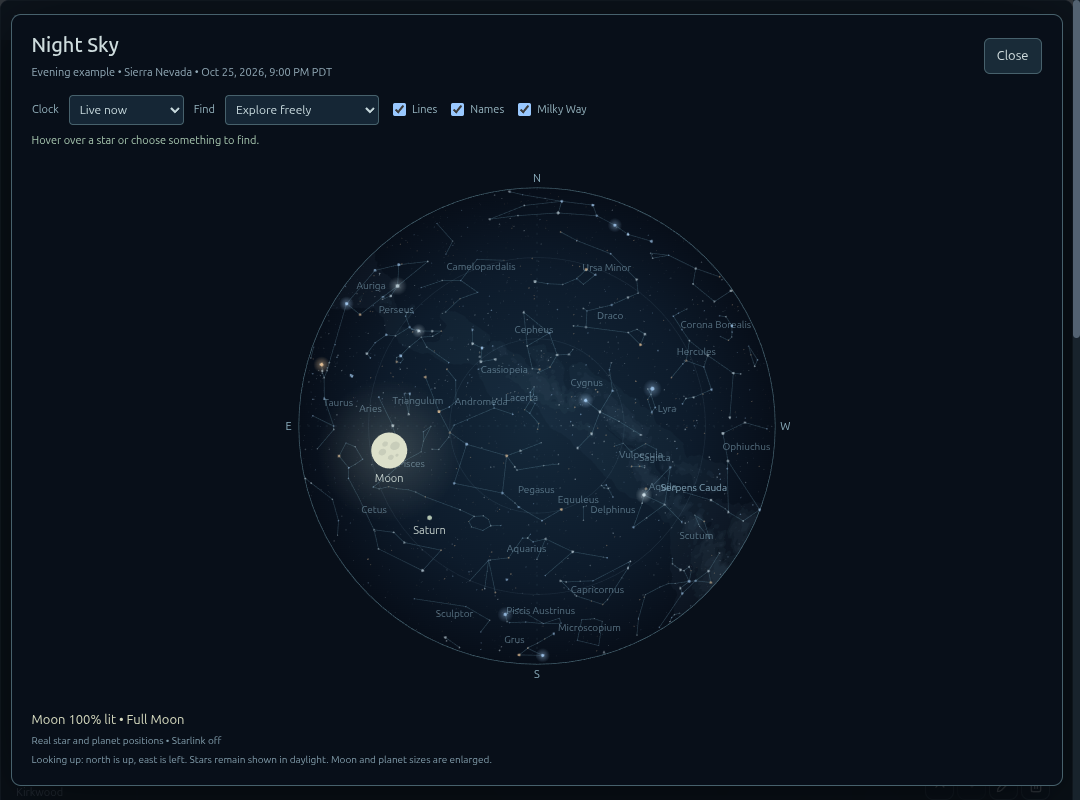
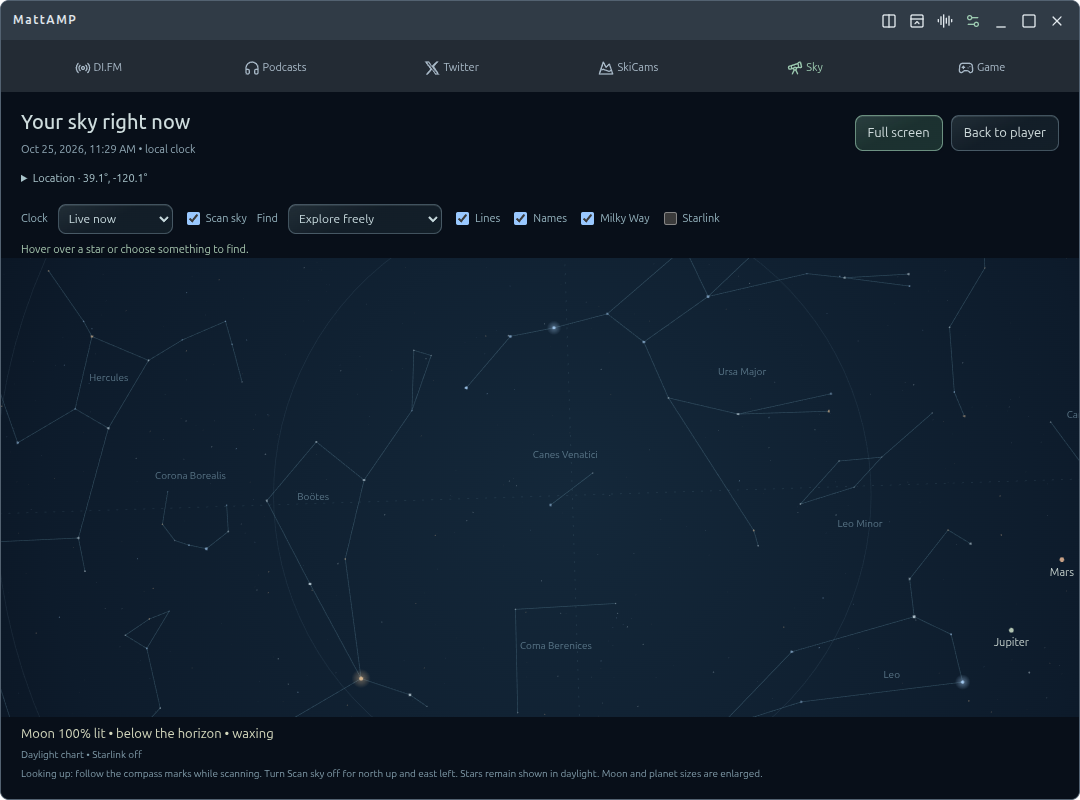
Make Sky a dedicated mode with true fullscreen exploration

diff --git a/src/app.js b/src/app.js
@@ -5,7 +5,7 @@ const ambient=new MattAmbient($('ambient'));
 const retro=new MattRetro(root,audio);
 const apple2=new MattApple2();
 let appHidden=false;
-const skyUI=new MattSkyUI({ambient,getState:()=>state,onToggle:()=>{syncXBounds();syncGame();},save:async patch=>{const saved=await unwrap(window.deck.save(patch));state.skyLocation=saved.skyLocation;state.skySatellites=saved.skySatellites;state.skyTime=saved.skyTime;state.skyScan=saved.skyScan;}});
+const skyUI=new MattSkyUI({ambient,getState:()=>state,onOpen:enterSky,onClose:exitSky,save:async patch=>{const saved=await unwrap(window.deck.save(patch));state.skyLocation=saved.skyLocation;state.skySatellites=saved.skySatellites;state.skyTime=saved.skyTime;state.skyScan=saved.skyScan;}});
 function syncAmbient(){if(state){ambient.configure(state.appearance!=='modern'?'off':state.ambient,appHidden||mode==='bug');skyUI.sync(state.appearance==='modern'&&state.ambient==='night-sky'&&!appHidden&&mode!=='bug',appHidden||mode==='bug');skyUI.render();retro.configure(state.appearance!=='modern',!appHidden&&!document.hidden&&mode!=='bug'&&!settings,state.source==='radio'&&!readingX&&!playingGame&&!watchingCams);}}
 const startupAudio=new Audio('/startup.mp3');
 startupAudio.preload='auto';
@@ -20,6 +20,7 @@ function playTabSound(tab){
 }
 function stopStartup(){startupAudio.pause();startupAudio.currentTime=0;}
 let artwork={};
+let viewingSky=false,skyReturn=null;
 let readingX=false,playingGame=false,watchingCams=false,cameraPanel=null,xLane='ai';
 const arcade=new MattArcade($('game-panel'),()=>resize());
 function syncWindowState({maximized}){
@@ -27,7 +28,7 @@ function syncWindowState({maximized}){
  button.setAttribute('aria-pressed',String(maximized));button.setAttribute('aria-label',maximized?'Restore window':'Maximize window');button.title=maximized?'Restore window':'Maximize window';button.innerHTML=icon(maximized?'copy':'square');
  if(state)render();
 }
-function syncGame(){if(!playingGame&&arcade.expanded)arcade.setExpanded(false);arcade.setVisible(playingGame&&!settings&&!skyUI.dialog.open&&mode==='full'&&!appHidden&&!document.hidden);}
+function syncGame(){if(!playingGame&&arcade.expanded)arcade.setExpanded(false);arcade.setVisible(playingGame&&!settings&&!skyUI.isOpen&&mode==='full'&&!appHidden&&!document.hidden);}
 function syncChrome(){
  const title=document.querySelector('.titlebar').offsetHeight,tabs=document.querySelector('.sourcebar').offsetHeight;
  root.style.setProperty('--titlebar-height',title+'px');root.style.setProperty('--sourcebar-height',tabs+'px');
@@ -36,15 +37,23 @@ function syncChrome(){
  syncXBounds();
 }
 function syncXBounds(){
- cameraPanel?.setVisible(watchingCams&&!settings&&!skyUI.dialog.open&&mode==='full'&&!appHidden&&!document.hidden);
- const rect=$('x-viewport').getBoundingClientRect(),visible=readingX&&!settings&&!skyUI.dialog.open&&mode==='full'&&!document.hidden&&rect.y>=document.querySelector('.sourcebar').getBoundingClientRect().bottom;
+ cameraPanel?.setVisible(watchingCams&&!settings&&!skyUI.isOpen&&mode==='full'&&!appHidden&&!document.hidden);
+ const rect=$('x-viewport').getBoundingClientRect(),visible=readingX&&!settings&&!skyUI.isOpen&&mode==='full'&&!document.hidden&&rect.y>=document.querySelector('.sourcebar').getBoundingClientRect().bottom;
  void window.deck.xBounds({visible,x:rect.x,y:rect.y,width:rect.width,height:rect.height});
 }
-function toggleX(open){watchingCams=false;playingGame=false;readingX=open;if(open){mode='full';settings=false;if(isVideo())pause();}render();}
+function enterSky(){
+ if(!viewingSky)skyReturn={readingX,playingGame,watchingCams};
+ viewingSky=true;readingX=false;playingGame=false;watchingCams=false;mode='full';settings=false;
+ if(isVideo())pause();render();$('sky-fullscreen').focus({preventScroll:true});
+}
+function exitSky(){
+ viewingSky=false;if(skyReturn)({readingX,playingGame,watchingCams}=skyReturn);skyReturn=null;render();$('source-sky').focus({preventScroll:true});
+}
+function toggleX(open){viewingSky=false;watchingCams=false;playingGame=false;readingX=open;if(open){mode='full';settings=false;if(isVideo())pause();}render();}
 async function xAction(action,lane=xLane){try{await unwrap(window.deck.xAction(action,lane));}catch(err){$('x-status').textContent=err.message;}}
 function renderX(){
  const visible=readingX&&mode==='full';
- $('x-panel').hidden=!visible;document.querySelector('.media').hidden=visible||playingGame||watchingCams;
+ $('x-panel').hidden=!visible;document.querySelector('.media').hidden=visible||playingGame||watchingCams||viewingSky;
  $('x-ai').setAttribute('aria-pressed',String(xLane==='ai'));$('x-giggles').setAttribute('aria-pressed',String(xLane==='giggles'));
  $('x-summary').textContent=xLane==='giggles'?'@elonmusk · a little chaos on the side':state.xAccounts.map(name=>'@'+name).join(' · ')+(state.xAiOnly?' · AI topics':' · all topics');
 }
@@ -84,7 +93,7 @@ async function persist(){if(!state)return;try{await unwrap(window.deck.save({app
 function queueSave(){clearTimeout(saveTimer);saveTimer=setTimeout(()=>{snapshot();void persist();},300);}
 function setStatus(value,isPlaying=false){status=value;playing=isPlaying;$('play-status').textContent=value;$('play').innerHTML=icon(isPlaying?'pause':'play')+'<span>'+(isPlaying?'Pause':'Play')+'</span>';$('play').setAttribute('aria-label',isPlaying?'Pause playback':'Play');updateBug();icons();}
 function updateBug(){if(!state)return;const online=metrics?.network?.status==='online';const color=online?'#9ccab0':metrics?.network?.status==='checking'?'#a8b9c7':'#dfb574';document.querySelector('.bug-led').style.background=color;const name=state.source==='radio'?activeStation()?.name:activeShow()?.name;const description='Open MattAMP · '+name+' · '+status+' · '+(online?'Online':'Network '+(metrics?.network?.status||'checking'));$('bug').title=description;$('bug').setAttribute('aria-label',description);const old=document.querySelector('.bug-playback');const replacement=document.createElement('i');replacement.className='bug-playback';replacement.dataset.lucide=playing?'play':'pause';old.replaceWith(replacement);}
-function resize(){if(skyUI.dialog.open||resizeQueued)return;resizeQueued=true;requestAnimationFrame(()=>{resizeQueued=false;if(!state)return;const full=document.querySelector('.full');const h=mode==='bug'?56:Math.ceil(document.querySelector('.titlebar').offsetHeight+(settings?$('settings').scrollHeight:full.scrollHeight)+parseFloat(getComputedStyle(root).borderTopWidth)+parseFloat(getComputedStyle(root).borderBottomWidth));const expanded=arcade.expanded&&playingGame;const game=playingGame?(mode==='bug'?'bug':settings?'settings':'play'):'';const key=[mode,state.layout,h,settings,expanded,game].join(':');if(lastSize===key){syncXBounds();return;}lastSize=key;void window.deck.resize(mode,h,expanded,game).then(syncXBounds);});}
+function resize(){if(resizeQueued)return;resizeQueued=true;requestAnimationFrame(()=>{resizeQueued=false;if(!state)return;const full=document.querySelector('.full');const h=mode==='bug'?56:Math.ceil(document.querySelector('.titlebar').offsetHeight+(settings?$('settings').scrollHeight:full.scrollHeight)+parseFloat(getComputedStyle(root).borderTopWidth)+parseFloat(getComputedStyle(root).borderBottomWidth));const expanded=viewingSky||arcade.expanded&&playingGame;const game=viewingSky?(mode==='bug'?'bug':settings?'settings':'sky'):playingGame?(mode==='bug'?'bug':settings?'settings':'play'):'';const key=[mode,state.layout,h,settings,expanded,game].join(':');if(lastSize===key){syncXBounds();return;}lastSize=key;void window.deck.resize(mode,h,expanded,game).then(syncXBounds);});}
 function render(){
  root.classList.toggle('retro',state.appearance!=='modern');root.classList.toggle('apple2',state.appearance==='apple2');root.classList.toggle('scanlines',state.appearance==='apple2'&&state.scanlines);
  $('appearance').value=state.appearance;$('scanlines').checked=state.scanlines;$('scanlines-setting').hidden=state.appearance!=='apple2';
@@ -92,12 +101,13 @@ function render(){
  $('appearance-hint').textContent=state.appearance==='apple2'?'Color pixels, green outlines, and an optional robotic greeting. Silly sound effects controls the greeting.':state.appearance==='retro'?'Metal trim, green LEDs, and a modem greeting. Welcome back to 1997.':'Dark glass and your chosen live background.';
  renderBandwidth();
  const podcast=state.source==='podcast',video=isVideo();
+ skyUI.setVisible(viewingSky&&!settings&&mode==='full');root.classList.toggle('sky-mode',skyUI.isOpen);$('source-sky').setAttribute('aria-pressed',String(viewingSky));
  renderX();syncAmbient();syncGame();
  root.classList.toggle('arcade-expanded',(arcade.expanded||arcade.maximized)&&playingGame&&!settings&&mode==='full');
  root.classList.toggle('game-mode',playingGame&&!settings&&mode==='full');$('game-panel').hidden=!playingGame||settings||mode!=='full';$('source-game').setAttribute('aria-pressed',String(playingGame));
  root.classList.toggle('sidecar',state.layout==='sidecar');root.classList.toggle('stack',state.layout==='stack');root.classList.toggle('compact',mode==='compact');root.classList.toggle('bug-mode',mode==='bug');root.classList.toggle('youtube',video);root.classList.toggle('details',state.details);root.classList.toggle('settings-mode',settings);
  $('source-cameras').setAttribute('aria-pressed',String(watchingCams));
- $('source-radio').setAttribute('aria-pressed',String(!watchingCams&&!readingX&&!playingGame&&!podcast));$('source-podcast').setAttribute('aria-pressed',String(!watchingCams&&!readingX&&!playingGame&&podcast));$('source-x').setAttribute('aria-pressed',String(readingX));
+ $('source-radio').setAttribute('aria-pressed',String(!viewingSky&&!watchingCams&&!readingX&&!playingGame&&!podcast));$('source-podcast').setAttribute('aria-pressed',String(!viewingSky&&!watchingCams&&!readingX&&!playingGame&&podcast));$('source-x').setAttribute('aria-pressed',String(readingX));
  $('radio-display').hidden=video;$('youtube-box').hidden=!video;$('transport').hidden=video;$('retro-prev').disabled=podcast;$('retro-next').disabled=podcast;$('podcast-tools').hidden=!podcast;$('stations').hidden=podcast;$('shows').hidden=!podcast;$('settings').hidden=!settings;$('manage-podcasts').hidden=!podcast;
  $('provider').textContent=podcast?'PODCAST / AUDIO':'DI.FM / RADIO';
  $('now-title').textContent=podcast?(activeShow()?.name||'Your podcasts'):activeStation()?.name;
@@ -288,7 +298,7 @@ async function savePodcastForm(e){
 async function init(){
  const boot=await unwrap(window.deck.init());state={...boot.state,origin:boot.origin};stations=boot.stations;shows=boot.shows;
  cameraPanel=new MattSkiCams({cameras:state.cameras,cameraId:state.cameraId,cycle:state.cameraCycle,cycleMinutes:state.cameraCycleMinutes,resize,icons,openSettings:()=>{settings=true;render();syncXBounds();}});
- $('source-cameras').onclick=()=>{watchingCams=true;readingX=false;playingGame=false;mode='full';settings=false;if(isVideo())pause();render();};
+ $('source-cameras').onclick=()=>{viewingSky=false;watchingCams=true;readingX=false;playingGame=false;mode='full';settings=false;if(isVideo())pause();render();};
  arcade.setShotReadouts(state.gameShotReadouts);
  $('game-chaos').value=state.chaos;arcade.refreshPreview();
  $('game-chaos').addEventListener('change',e=>{state.chaos=e.target.value;queueSave();});
@@ -310,7 +320,7 @@ async function init(){
  window.deck.onShown(()=>{appHidden=false;syncAmbient();syncGame();requestAnimationFrame(syncXBounds);});
  window.addEventListener('resize',syncXBounds);window.addEventListener('scroll',syncXBounds);
  document.addEventListener('visibilitychange',()=>{syncXBounds();syncGame();syncAmbient();});
- $('source-game').onclick=()=>{watchingCams=false;playingGame=true;readingX=false;mode='full';settings=false;if(isVideo())pause();render();};
+ $('source-game').onclick=()=>{viewingSky=false;watchingCams=false;playingGame=true;readingX=false;mode='full';settings=false;if(isVideo())pause();render();};
  $('source-x').onclick=()=>toggleX(true);$('source-radio').onclick=()=>{toggleX(false);void switchSource('radio');};$('source-podcast').onclick=()=>{toggleX(false);void switchSource('podcast');};$('play').onclick=()=>void play();$('stop').onclick=()=>{stopAll();queueSave();};
  for(const tab of ['radio','podcast','cameras','game','x'])$('source-'+tab).addEventListener('click',()=>playTabSound(tab));
  $('game-sound').addEventListener('click',()=>{if(!arcade.sound)tabAudio.pause();});

diff --git a/src/sky-ui.js b/src/sky-ui.js
@@ -1,6 +1,6 @@
 class MattSkyUI {
- constructor({ambient,getState,save,onToggle=()=>{}}){
-  this.onToggle=onToggle;this.ambient=ambient;this.getState=getState;this.save=save;this.active=false;this.timer=0;this.frame=0;this.busy=false;this.generation=0;this.pointer={x:.5,y:.5,inside:false};
+ constructor({ambient,getState,save,onOpen=()=>{},onClose=()=>{}}){
+  this.onOpen=onOpen;this.onClose=onClose;this.ambient=ambient;this.getState=getState;this.save=save;this.active=false;this.timer=0;this.frame=0;this.busy=false;this.generation=0;this.pointer={x:.5,y:.5,inside:false};
   this.$=id=>document.getElementById(id);this.dialog=this.$('sky-view');this.map=this.$('sky-map');this.scene=ambient.nightSky;this.motion=matchMedia('(prefers-reduced-motion: reduce)');
   for(const id of ['sky-time','sky-view-clock'])this.$(id).onchange=async e=>{await this.save({skyTime:e.target.value});this.scene.clock.configure(e.target.value);this.scene.data=null;this.render();await this.refresh();};
   for(const id of ['sky-scan','sky-view-scan'])this.$(id).onchange=async e=>{await this.save({skyScan:e.target.checked});this.render();this.draw();};
@@ -9,46 +9,56 @@ class MattSkyUI {
   this.$('sky-locate').onclick=()=>this.locate();
   this.$('sky-forget').onclick=async()=>{this.generation++;await window.deck.skyLocation('cancel');await this.setLocation(null);};
   this.$('sky-location-form').onsubmit=async e=>{e.preventDefault();this.generation++;await this.setLocation({latitude:Number(this.$('sky-lat').value),longitude:Number(this.$('sky-lon').value),source:'manual'});};
-  this.$('sky-satellites').onchange=async e=>{await this.save({skySatellites:e.target.checked});await this.refresh();};
-  this.$('sky-open').onclick=this.$('sky-quick-open').onclick=()=>this.open();
+  for(const id of ['sky-satellites','sky-view-satellites'])this.$(id).onchange=async e=>{await this.save({skySatellites:e.target.checked});this.render();await this.refresh();};
+  this.$('sky-quick-open').onclick=this.$('source-sky').onclick=()=>this.open();
   const deck=this.$('deck');let down=null;
   deck.addEventListener('pointerdown',e=>{down={x:e.clientX,y:e.clientY};},{passive:true});
   deck.addEventListener('click',e=>{
    if(!this.active||this.blocked||e.defaultPrevented||e.button!==0||!this.getState()?.skyLocation||!window.getSelection()?.isCollapsed)return;
    if(down&&Math.hypot(e.clientX-down.x,e.clientY-down.y)>6)return;
    // Use the original event path: a control can replace its icon during its click handler.
-   if(e.composedPath().some(node=>node instanceof Element&&node.matches('button,a,input,select,textarea,label,summary,details,[role=button],[contenteditable],.titlebar,.sourcebar,#settings,#bug,#transport,#podcast-tools,#game-panel,#youtube-box,#x-panel,#camera-panel')))return;
+   if(e.composedPath().some(node=>node instanceof Element&&node.matches('button,a,input,select,textarea,label,summary,details,[role=button],[contenteditable],.titlebar,.sourcebar,#settings,#bug,#transport,#podcast-tools,#game-panel,#youtube-box,#x-panel,#camera-panel,#sky-view')))return;
    this.open();
   });
-  this.$('sky-view-close').onclick=()=>this.dialog.close();
-  this.dialog.addEventListener('close',()=>{cancelAnimationFrame(this.frame);this.frame=0;this.sync(this.active);this.onToggle(false);});
+  this.$('sky-view-close').onclick=()=>this.close();
+  this.$('sky-fullscreen').onclick=async()=>{
+   try{if(document.fullscreenElement)await document.exitFullscreen();else await this.dialog.requestFullscreen();}
+   catch{this.$('sky-view-status').textContent='Full screen is unavailable. You can still maximize the window.';}
+  };
+  document.addEventListener('fullscreenchange',()=>{const full=document.fullscreenElement===this.dialog;this.$('sky-fullscreen').textContent=full?'Exit full screen':'Full screen';this.$('sky-fullscreen').setAttribute('aria-pressed',String(full));this.draw();});
+  document.addEventListener('keydown',e=>{if(e.key==='Escape'&&this.isOpen&&!e.defaultPrevented){e.preventDefault();if(document.fullscreenElement===this.dialog)void document.exitFullscreen();else void this.close();}});
   this.dialog.addEventListener('pointermove',e=>{const r=this.map.getBoundingClientRect();this.pointer={x:(e.clientX-r.left)/r.width,y:(e.clientY-r.top)/r.height,inside:true};if(this.motion.matches)this.draw();});
   this.dialog.addEventListener('pointerleave',()=>{this.pointer.inside=false;});
   this.motion.addEventListener('change',()=>{cancelAnimationFrame(this.frame);this.frame=0;this.sync(this.active);});
   document.addEventListener('visibilitychange',()=>this.sync(this.active));
   this.observer=new ResizeObserver(()=>this.draw());this.observer.observe(this.map);
  }
- open(){
-  if(this.dialog.open||this.blocked||!this.getState()?.skyLocation)return;
-  this.dialog.showModal();this.onToggle(true);this.sync(this.active);this.refresh();this.animate();
+ get isOpen(){return !this.dialog.hidden;}
+ open(){if(!this.blocked)this.onOpen();}
+ async close(){if(document.fullscreenElement===this.dialog)await document.exitFullscreen();this.onClose();}
+ setVisible(visible){
+  if(this.isOpen===visible)return;
+  this.dialog.hidden=!visible;
+  if(!visible){cancelAnimationFrame(this.frame);this.frame=0;}
+  this.sync(this.active);this.render();
  }
  async unwrap(promise){const r=await promise;if(!r.ok)throw new Error(r.error);return r.data;}
  render(){
   const s=this.getState();if(!s)return;
-  this.$('sky-settings').hidden=s.ambient!=='night-sky';this.$('sky-satellites').checked=s.skySatellites;this.$('sky-satellites').disabled=s.skyTime==='tour';this.scene.clock.configure(s.skyTime);this.$('sky-time').value=this.$('sky-view-clock').value=s.skyTime||'live';this.$('sky-clock-readout').hidden=!(s.ambient==='night-sky'&&s.appearance==='modern'&&s.skyTime==='tour'&&s.skyLocation);
+  this.$('sky-settings').hidden=s.ambient!=='night-sky';this.$('sky-satellites').checked=this.$('sky-view-satellites').checked=s.skySatellites;this.$('sky-satellites').disabled=this.$('sky-view-satellites').disabled=s.skyTime==='tour';this.scene.clock.configure(s.skyTime);this.$('sky-time').value=this.$('sky-view-clock').value=s.skyTime||'live';this.$('sky-clock-readout').hidden=!(s.ambient==='night-sky'&&s.appearance==='modern'&&s.skyTime==='tour'&&s.skyLocation);
   this.scene.scan=s.skyScan!==false;this.$('sky-scan').checked=this.$('sky-view-scan').checked=this.scene.scan;
-  const loc=s.skyLocation;this.$('sky-quick-open').hidden=!this.active||!loc;this.$('deck').classList.toggle('sky-clickable',this.active&&!!loc);
-  this.$('sky-open').disabled=!loc;this.$('sky-forget').disabled=!loc;
+  const loc=s.skyLocation;this.$('sky-quick-open').hidden=!this.active||this.isOpen;this.$('deck').classList.toggle('sky-clickable',this.active&&!!loc);
+  this.$('sky-empty').hidden=!!loc;this.map.hidden=!loc;this.$('sky-location-controls').open=!loc;this.$('sky-location-controls').querySelector('summary').textContent=loc?`Location · ${loc.latitude.toFixed(1)}°, ${loc.longitude.toFixed(1)}°`:'Choose your sky location';this.$('sky-forget').disabled=!loc;
   this.$('sky-location-status').textContent=loc?`${loc.latitude.toFixed(1)}°, ${loc.longitude.toFixed(1)}° — ${loc.source==='network'?'network estimate; check if using a VPN':loc.source==='device'?'device location':'chosen coordinates'}. Saved only on this device.`:'No location saved. Allow location or enter coordinates to light up your sky.';
  }
  sync(active,blocked=this.blocked){
-  this.active=active;this.blocked=blocked;this.scene.reducedMotion=this.motion.matches;this.scene.clock.paused=this.motion.matches||blocked||document.hidden||((!active||this.motion.matches)&&!this.dialog.open);clearTimeout(this.timer);this.timer=0;
-  if(!this.getState()?.skyLocation||document.hidden||this.blocked||((!active||this.motion.matches)&&!this.dialog.open)){cancelAnimationFrame(this.frame);this.frame=0;return;}
+  this.active=active;this.blocked=blocked;this.scene.reducedMotion=this.motion.matches;this.scene.clock.paused=this.motion.matches||blocked||document.hidden||((!active||this.motion.matches)&&!this.isOpen);clearTimeout(this.timer);this.timer=0;
+  if(!this.getState()?.skyLocation||document.hidden||this.blocked||((!active||this.motion.matches)&&!this.isOpen)){cancelAnimationFrame(this.frame);this.frame=0;return;}
   void this.refresh();this.animate();
  }
  async refresh(){
   if(this.busy)return;
-  const loc=this.getState()?.skyLocation;if(!loc||document.hidden||this.blocked||((!this.active||this.motion.matches)&&!this.dialog.open))return;
+  const loc=this.getState()?.skyLocation;if(!loc||document.hidden||this.blocked||((!this.active||this.motion.matches)&&!this.isOpen))return;
   const key=JSON.stringify(loc);this.busy=true;
   try{
    const data=await this.unwrap(window.deck.sky(this.scene.clock.offset()));
@@ -67,7 +77,7 @@ class MattSkyUI {
    }
    this.draw();
   }catch{this.$('sky-status').textContent='Sky unavailable. Try selecting Night Sky again.';}
-  finally{this.busy=false;clearTimeout(this.timer);this.timer=0;if(!document.hidden&&!this.blocked&&this.getState()?.skyLocation&&((this.active&&!this.motion.matches)||this.dialog.open))this.timer=setTimeout(()=>this.refresh(),this.scene.clock.mode==='tour'&&!this.scene.clock.paused?1000:5000);}
+  finally{this.busy=false;clearTimeout(this.timer);this.timer=0;if(!document.hidden&&!this.blocked&&this.getState()?.skyLocation&&((this.active&&!this.motion.matches)||this.isOpen))this.timer=setTimeout(()=>this.refresh(),this.scene.clock.mode==='tour'&&!this.scene.clock.paused?1000:5000);}
  }
  found(){const t=this.scene.view()?.targets?.find(t=>t.name===this.scene.focus);this.$('sky-found').textContent=t?`${t.name}: ${t.alt<0?'below the horizon':Math.round(t.alt)+'° above the horizon'}, bearing ${Math.round(t.az)}° from north.`:'Hover over a star or choose something to find.';}
  async setLocation(loc){
@@ -87,11 +97,11 @@ class MattSkyUI {
   finally{await window.deck.skyLocation('cancel');button.disabled=false;}
  }
  draw(){
-  if(!this.dialog.open||!this.scene.data)return;
+  if(!this.isOpen||!this.scene.data)return;
   const w=this.map.clientWidth,h=this.map.clientHeight,dpr=Math.min(devicePixelRatio||1,1.5),c=this.map.getContext('2d');if(!w||!h)return;
   if(this.map.width!==Math.round(w*dpr)||this.map.height!==Math.round(h*dpr)){this.map.width=Math.round(w*dpr);this.map.height=Math.round(h*dpr);}
   c.setTransform(dpr,0,0,dpr,0,0);c.clearRect(0,0,w,h);this.scene.draw(c,w,h,performance.now()/1000,this.pointer,true);
  }
- animate(){if(this.frame||!this.dialog.open||document.hidden||this.blocked)return;this.draw();if(this.motion.matches)return;let last=0;const tick=now=>{this.frame=0;if(!this.dialog.open||document.hidden||this.blocked)return;if(now-last>1000/24){last=now;this.draw();}this.frame=requestAnimationFrame(tick);};this.frame=requestAnimationFrame(tick);}
+ animate(){if(this.frame||!this.isOpen||document.hidden||this.blocked)return;this.draw();if(this.motion.matches)return;let last=0;const tick=now=>{this.frame=0;if(!this.isOpen||document.hidden||this.blocked)return;if(now-last>1000/24){last=now;this.draw();}this.frame=requestAnimationFrame(tick);};this.frame=requestAnimationFrame(tick);}
 }
 window.MattSkyUI=MattSkyUI;

diff --git a/src/index.html b/src/index.html
@@ -15,7 +15,7 @@
  </div></header>
  <button id="bug" aria-label="Open MattAMP" title="Open MattAMP"><i data-lucide="audio-lines" class="bug-mark"></i><span class="bug-led"></span><i data-lucide="pause" class="bug-playback"></i></button>
  <div class="full">
-   <div class="sourcebar" role="group" aria-label="Content"><button id="source-radio" aria-pressed="true"><i data-lucide="radio"></i><span>DI.FM</span></button><button id="source-podcast" aria-pressed="false"><i data-lucide="headphones"></i><span>Podcasts</span></button><button id="source-x" aria-label="X / Twitter feed" aria-pressed="false"><svg viewBox="0 0 24 24" aria-hidden="true" fill="currentColor"><path d="M18.9 2H22l-6.8 7.8L23.2 22h-6.3L12 14.6 5.5 22H2.3l7.2-8.3L1 2h6.5l4.4 6.7L18.9 2Zm-1.1 18h1.7L6.6 3.9H4.8L17.8 20Z"/></svg><span>Twitter</span></button><button id="source-cameras" aria-pressed="false"><i data-lucide="mountain-snow"></i><span>SkiCams</span></button><button id="source-game" aria-pressed="false"><i data-lucide="gamepad-2"></i><span>Game</span></button><span id="play-status" class="sr-only" role="status">Stopped</span></div>
+   <div class="sourcebar" role="group" aria-label="Content"><button id="source-radio" aria-pressed="true"><i data-lucide="radio"></i><span>DI.FM</span></button><button id="source-podcast" aria-pressed="false"><i data-lucide="headphones"></i><span>Podcasts</span></button><button id="source-x" aria-label="X / Twitter feed" aria-pressed="false"><svg viewBox="0 0 24 24" aria-hidden="true" fill="currentColor"><path d="M18.9 2H22l-6.8 7.8L23.2 22h-6.3L12 14.6 5.5 22H2.3l7.2-8.3L1 2h6.5l4.4 6.7L18.9 2Zm-1.1 18h1.7L6.6 3.9H4.8L17.8 20Z"/></svg><span>Twitter</span></button><button id="source-cameras" aria-pressed="false"><i data-lucide="mountain-snow"></i><span>SkiCams</span></button><button id="source-sky" aria-pressed="false"><i data-lucide="telescope"></i><span>Sky</span></button><button id="source-game" aria-pressed="false"><i data-lucide="gamepad-2"></i><span>Game</span></button><span id="play-status" class="sr-only" role="status">Stopped</span></div>
   <div class="content">
   <section class="media" aria-label="Player">
    <div id="radio-display" class="display"><img id="station-art" alt="" hidden><div class="now-copy"><span id="provider">DI.FM / RADIO</span><h1 id="now-title">Future Synthpop</h1><p id="now-detail">Ready when you are.</p><figure id="retro-spectrum" class="retro-only"><canvas width="320" height="48" aria-label="Live audio spectrum"></canvas><figcaption>Audio spectrum · idle</figcaption></figure></div></div>
@@ -32,6 +32,10 @@
    <div id="shows" class="shows" aria-label="Favorite podcasts" hidden></div>
    <button id="manage-podcasts" class="text-button" hidden><i data-lucide="list-music"></i>Manage podcasts</button>
   </section>
+  <section id="sky-view" hidden aria-labelledby="sky-view-heading"><div class="sky-view-header"><div><h2 id="sky-view-heading">Your sky tonight</h2><p id="sky-view-time"></p></div><div class="sky-view-actions"><button id="sky-fullscreen" type="button" aria-pressed="false">Full screen</button><button id="sky-view-close" type="button">Back to player</button></div></div><details id="sky-location-controls"><summary>Location</summary>   <div class="settings-row"><button id="sky-locate" type="button">Use device location</button><button id="sky-forget" type="button">Forget location</button></div>
+   <p id="sky-location-status" class="hint" role="status">No location saved.</p>
+   <details><summary>Enter coordinates instead</summary><form id="sky-location-form"><div class="sky-coordinates"><label>Latitude<input id="sky-lat" type="number" min="-90" max="90" step="any" required placeholder="39.0"></label><label>Longitude<input id="sky-lon" type="number" min="-180" max="180" step="any" required placeholder="-120.0"></label><button type="submit">Use coordinates</button></div></form></details>
+</details><p id="sky-empty">Choose a location to discover your sky. Device location is optional; you can enter coordinates instead.</p><div class="sky-view-tools"><label for="sky-view-clock">Clock</label><select id="sky-view-clock"><option value="live">Live now</option><option value="tour">Two-week drift</option></select><label><input id="sky-view-scan" type="checkbox" checked>Scan sky</label><label for="sky-find">Find</label><select id="sky-find"><option value="">Explore freely</option></select><label><input id="sky-lines" type="checkbox" checked>Lines</label><label><input id="sky-labels" type="checkbox" checked>Names</label><label><input id="sky-milkyway" type="checkbox" checked>Milky Way</label><label title="Predicted positions, not optical visibility. Available in Live now."><input id="sky-view-satellites" type="checkbox">Starlink</label></div><p id="sky-found" role="status"></p><canvas id="sky-map" role="img" aria-label="Sky chart with labelled compass directions and optional camera scan."></canvas><div class="sky-view-footer"><p id="sky-view-moon"></p><p id="sky-view-status"></p><p>Looking up: follow the compass marks while scanning. Turn Scan sky off for north up and east left. Stars remain shown in daylight. Moon and planet sizes are enlarged.</p></div></section>
   <section id="camera-panel" aria-label="SkiCams" hidden>
    <div class="camera-heading"><h2>SkiCams</h2><button id="camera-manage" class="text-button"><i data-lucide="settings-2"></i>Manage cams</button></div>
    <label for="camera-select" class="sr-only">Choose a ski camera</label>
@@ -132,9 +136,6 @@
   <section id="sky-settings" hidden aria-labelledby="sky-heading">
    <h2 id="sky-heading">Night Sky</h2>
    <p class="hint">Your sky, right now. Stars, constellations, planets and the Moon’s phase, calculated on this device.</p>
-   <div class="settings-row"><button id="sky-locate" type="button">Use device location</button><button id="sky-forget" type="button">Forget location</button><button id="sky-open" type="button">Explore sky</button></div>
-   <p id="sky-location-status" class="hint" role="status">No location saved.</p>
-   <details><summary>Enter coordinates instead</summary><form id="sky-location-form"><div class="sky-coordinates"><label>Latitude<input id="sky-lat" type="number" min="-90" max="90" step="any" required placeholder="39.0"></label><label>Longitude<input id="sky-lon" type="number" min="-180" max="180" step="any" required placeholder="-120.0"></label><button type="submit">Use coordinates</button></div></form></details>
    <label><input id="sky-scan" type="checkbox" checked>Scan sky</label><p class="hint">A gentle camera sweep, even in Live now. Choosing an object settles into a steady chart; Explore freely resumes the scan.</p>
    <label for="sky-time">Sky clock</label><select id="sky-time"><option value="live">Live now</option><option value="tour">Two-week drift</option></select><p class="hint">Drift replays last week into next week, then gently reverses. Roughly one sky rotation per minute. Starlink tracks are available in Live now.</p>
    <label class="check"><input id="sky-satellites" type="checkbox">Show predicted Starlink tracks</label>
@@ -149,4 +150,4 @@
  </section>
 </main>
 <audio id="audio" preload="none"></audio>
-<dialog id="sky-view" aria-labelledby="sky-view-heading"><div class="sky-view-header"><div><h2 id="sky-view-heading">Your sky tonight</h2><p id="sky-view-time"></p></div><button id="sky-view-close" type="button" autofocus>Close</button></div><div class="sky-view-tools"><label for="sky-view-clock">Clock</label><select id="sky-view-clock"><option value="live">Live now</option><option value="tour">Two-week drift</option></select><label><input id="sky-view-scan" type="checkbox" checked>Scan sky</label><label for="sky-find">Find</label><select id="sky-find"><option value="">Explore freely</option></select><label><input id="sky-lines" type="checkbox" checked>Lines</label><label><input id="sky-labels" type="checkbox" checked>Names</label><label><input id="sky-milkyway" type="checkbox" checked>Milky Way</label></div><p id="sky-found" role="status"></p><canvas id="sky-map" role="img" aria-label="Sky chart with labelled compass directions and optional camera scan."></canvas><div class="sky-view-footer"><p id="sky-view-moon"></p><p id="sky-view-status"></p><p>Looking up: follow the compass marks while scanning. Turn Scan sky off for north up and east left. Stars remain shown in daylight. Moon and planet sizes are enlarged.</p></div></dialog></body></html>
+</body></html>

diff --git a/src/style.css b/src/style.css
@@ -142,3 +142,24 @@ html{scroll-padding-top:var(--chrome-height,100px)}
 /* Only the open sky surface is a shortcut; foreground controls keep their actions. */
 #deck.sky-clickable .content,#deck.sky-clickable .media,#deck.sky-clickable #radio-display,#deck.sky-clickable #system{cursor:zoom-in}
 #deck.sky-clickable :is(#transport,#podcast-tools,#game-panel,#youtube-box,#x-panel,#camera-panel){cursor:default}
+
+/* Sky is a full workspace, beside Game; its canvas owns the remaining viewport. */
+#deck.sky-mode{height:100dvh;min-height:0;display:flex;flex-direction:column}
+#deck.sky-mode>.full{display:flex;flex:1;min-height:0;flex-direction:column}
+.sky-mode .content{display:flex;flex:1;min-height:0;flex-direction:column}
+.sky-mode .sourcebar,.sky-mode>.titlebar{flex:none}
+.sky-mode #system,.sky-mode #compact-status{display:none}
+#sky-view:not([hidden]){display:flex;flex:1;flex-direction:column;min-height:0;width:100%;height:auto;max-width:none;max-height:none;border:0;border-radius:0;box-shadow:none;overflow:auto}
+#sky-view:fullscreen{height:100vh;width:100vw;padding:12px 18px;overflow:hidden}
+.sky-view-actions{display:flex;gap:8px;flex:none}
+#sky-location-controls{margin:0 20px 6px;font-size:11px;color:#a9c4cb;flex:none}
+#sky-location-controls>summary{cursor:pointer;padding:5px 0;width:fit-content}
+#sky-location-controls .settings-row{display:flex;gap:8px;flex-wrap:wrap}
+#sky-location-controls .sky-coordinates{max-width:540px}
+#sky-location-controls input{max-width:160px}
+#sky-empty{margin:24px 20px;max-width:480px;color:#a9c4cb}
+#sky-view #sky-map{min-height:140px}
+.sky-view-header,.sky-view-tools,.sky-view-footer,#sky-found{flex:none}
+#deck .sourcebar{flex-wrap:wrap}
+#deck.sky-clickable #sky-view{cursor:default}
+@media(max-width:550px){.sky-view-header{padding:10px 12px 6px;align-items:flex-start;flex-wrap:wrap}.sky-view-tools{padding:6px 12px;gap:8px}.sky-view-header h2{font-size:18px}.sky-view-actions button{padding:6px}.sky-view-footer{padding:4px 12px 8px}.sky-view-footer p:last-child{display:none}}

diff --git a/docs/guide.md b/docs/guide.md
@@ -115,13 +115,13 @@ Missing sensors display as unavailable rather than an invented zero.
 
 ## Night Sky
 
-Choose **Settings → Live background → Night Sky**, then **Use device location**. The native permission dialog explains the device lookup and an IP-based fallback via ipwho.is. If allowed, MattAMP first asks the OS/browser location service; if unavailable, it requests a network estimate. VPNs can point that estimate somewhere else. Check the displayed coordinates, or enter latitude/longitude yourself. Coordinates are rounded to 0.1° and saved locally. **Forget location** deletes them and clears the sky; there is no location request on startup and no continuous location tracking. Use the button again after travelling.
+Choose the **Sky** tab, then **Use device location** or enter coordinates in the view. No Settings visit is needed. For the same sky behind your player, choose **Settings → Live background → Night Sky**. The native permission dialog explains the device lookup and an IP-based fallback via ipwho.is. If allowed, MattAMP first asks the OS/browser location service; if unavailable, it requests a network estimate. VPNs can point that estimate somewhere else. Check the displayed coordinates, or enter latitude/longitude yourself. Coordinates are rounded to 0.1° and saved locally. **Forget location** deletes them and clears the sky; there is no location request on startup and no continuous location tracking. Use the button again after travelling.
 
-Stars, constellations, Milky Way contours, planets and the Moon are calculated locally from the current date/time and saved coordinates. After setup, they work offline. The background is a cropped view looking up toward the zenith; **Explore sky** shows the whole hemisphere, north up and east left. Hover for star names, use **Find** to highlight a star, planet or constellation, and switch lines, names or Milky Way contours on/off. The finder tells you when an object is below the horizon. The Moon's illuminated fraction and bright-limb direction are calculated; its texture is illustrative. Moon and planet glyphs are enlarged. Stars remain shown during daylight, so this is a sky chart rather than a camera or a naked-eye visibility forecast. No phone-style compass or orientation tracking is implied.
+Stars, constellations, Milky Way contours, planets and the Moon are calculated locally from the current date/time and saved coordinates. After setup, they work offline. The background is a cropped view looking up toward the zenith; **Sky** opens a dedicated, resizable workspace. Turn off Scan sky to see the whole hemisphere, north up and east left. Hover for star names, use **Find** to highlight a star, planet or constellation, and switch lines, names or Milky Way contours on/off. The finder tells you when an object is below the horizon. The Moon's illuminated fraction and bright-limb direction are calculated; its texture is illustrative. Moon and planet glyphs are enlarged. Stars remain shown during daylight, so this is a sky chart rather than a camera or a naked-eye visibility forecast. No phone-style compass or orientation tracking is implied.
 
 **Show predicted Starlink tracks** is off by default. Enabling it downloads public OMM orbital elements from CelesTrak, selects a spread of up to 768 satellites, and draws up to 16 above-horizon tracks using SGP4. It does not attempt to display every Starlink satellite or predict sunlight, weather or visual brightness. Data is cached for at least two hours (including retry backoff), with the update timestamp shown. Elements older than seven days are discarded. Outages leave stars and the Moon working. Your coordinates never go to CelesTrak; the network location fallback receives your IP address, not device coordinates.
 
-Click the visible sky background to open the viewer immediately, or use the telescope icon in the title bar. Player controls, game clicks and embedded content keep their normal actions. Escape or Close returns to the widget.
+Click the visible sky background to open the viewer immediately, or use the telescope icon in the title bar. Player controls, game clicks and embedded content keep their normal actions. **Full screen** fills the display, with the sky controls still available. Escape leaves full screen first; Escape again or **Back to player** returns to your previous mode. Radio keeps playing. Sky retains your chosen window size while open.
 
 **Scan sky** is on by default: a slow camera sweep with gentle turns and zoom, independent of the sky clock. Turn it off for a fixed chart; choosing an object also settles the view until you return to Explore freely. Reduced-motion preferences keep it still.
 

diff --git a/README.md b/README.md
@@ -352,11 +352,11 @@ workstation telemetry. Install version 1.1.0 or later to use //e.
 
 **Live backgrounds:** Particle flow, Windy, Water waves, Starfield, Night Sky, Mandelbrot zoom, Trench Run, or Off. They react to the mouse. Particle flow sends layered cyan, mint, and muted-blue trails through shifting eddies; hovering stirs a curling wake. Windy is a separate wind-map-inspired effect with long trails, subtle color shading, passing hurricane eyes and broad currents between storms. Its seeded three-minute chapters vary direction, size and rotation, including storm-free chapters; it is decorative local animation, not live weather. Mandelbrot wanders through different regions with glides, curves, and spirals—a little Fractint affection, without turning the room into a flashlight. Trench Run is an endless, Star Wars vector-arcade-inspired flight through a geometric canyon: sharp corners, narrowing passages, varied wall panels, recessed floor shafts, and occasional dim enemy cannon bolts. Tight gaps bring steep knife-edge banks and full barrel rolls about once a minute; the text and controls stay upright. Mouse movement adds a little steering feel. A new procedural route is seeded each launch; there is no short repeating loop. Animation pauses when hidden or in bug mode and respects reduced motion.
 
-**Night Sky** turns your widget into a little planetarium. Give it permission to use approximate device location, or enter coordinates. It plots real stars, constellations, the Milky Way, the Moon’s phase, and planets against your horizon using the current clock. Click the sky background or the title-bar telescope to open a Sky Map–inspired chart with an object finder and layer switches. **Scan sky** is on by default: a slow camera sweep with gentle turns and zoom, independent of the sky clock. Turn it off for a fixed chart; choosing an object also settles the view until you return to Explore freely. Reduced-motion preferences keep it still.
+**Night Sky** turns your widget into a little planetarium. Give it permission to use approximate device location, or enter coordinates. It plots real stars, constellations, the Milky Way, the Moon’s phase, and planets against your horizon using the current clock. The **Sky** tab opens a dedicated, resizable workspace with location setup and a **Full screen** button. Radio keeps playing underneath. You can also click the sky background or title-bar telescope. The Sky Map–inspired chart comes with an object finder and layer switches. **Scan sky** is on by default: a slow camera sweep with gentle turns and zoom, independent of the sky clock. Turn it off for a fixed chart; choosing an object also settles the view until you return to Explore freely. Reduced-motion preferences keep it still.
 
 **Two-week drift** glides from last week into next week and eases back, with roughly one sky rotation per minute and a clearly marked simulated date. Optional Starlink trails in **Live now** use sampled, cached orbital data; they show predicted positions, including satellites you cannot actually see. Decorative **Starfield** remains a separate choice. [Location, satellite data, and sky details](docs/guide.md#night-sky)
 
-![Night Sky viewer, evening example from the Sierra Nevada](docs/images/night-sky.png)
+![Sky mode with its own controls, shown using example Sierra Nevada coordinates](docs/images/night-sky.png)
 
 
 CPU, memory, and network readings update every two seconds. Download and upload rates display in Mbps in Modern, Kbps in ’90s, and bps in //e, including compact mode. RAM and GPU memory readouts use MiB. NVIDIA GPU readings use `nvidia-smi`; absent sensors show as unavailable. Expand network status for router/internet checks.
